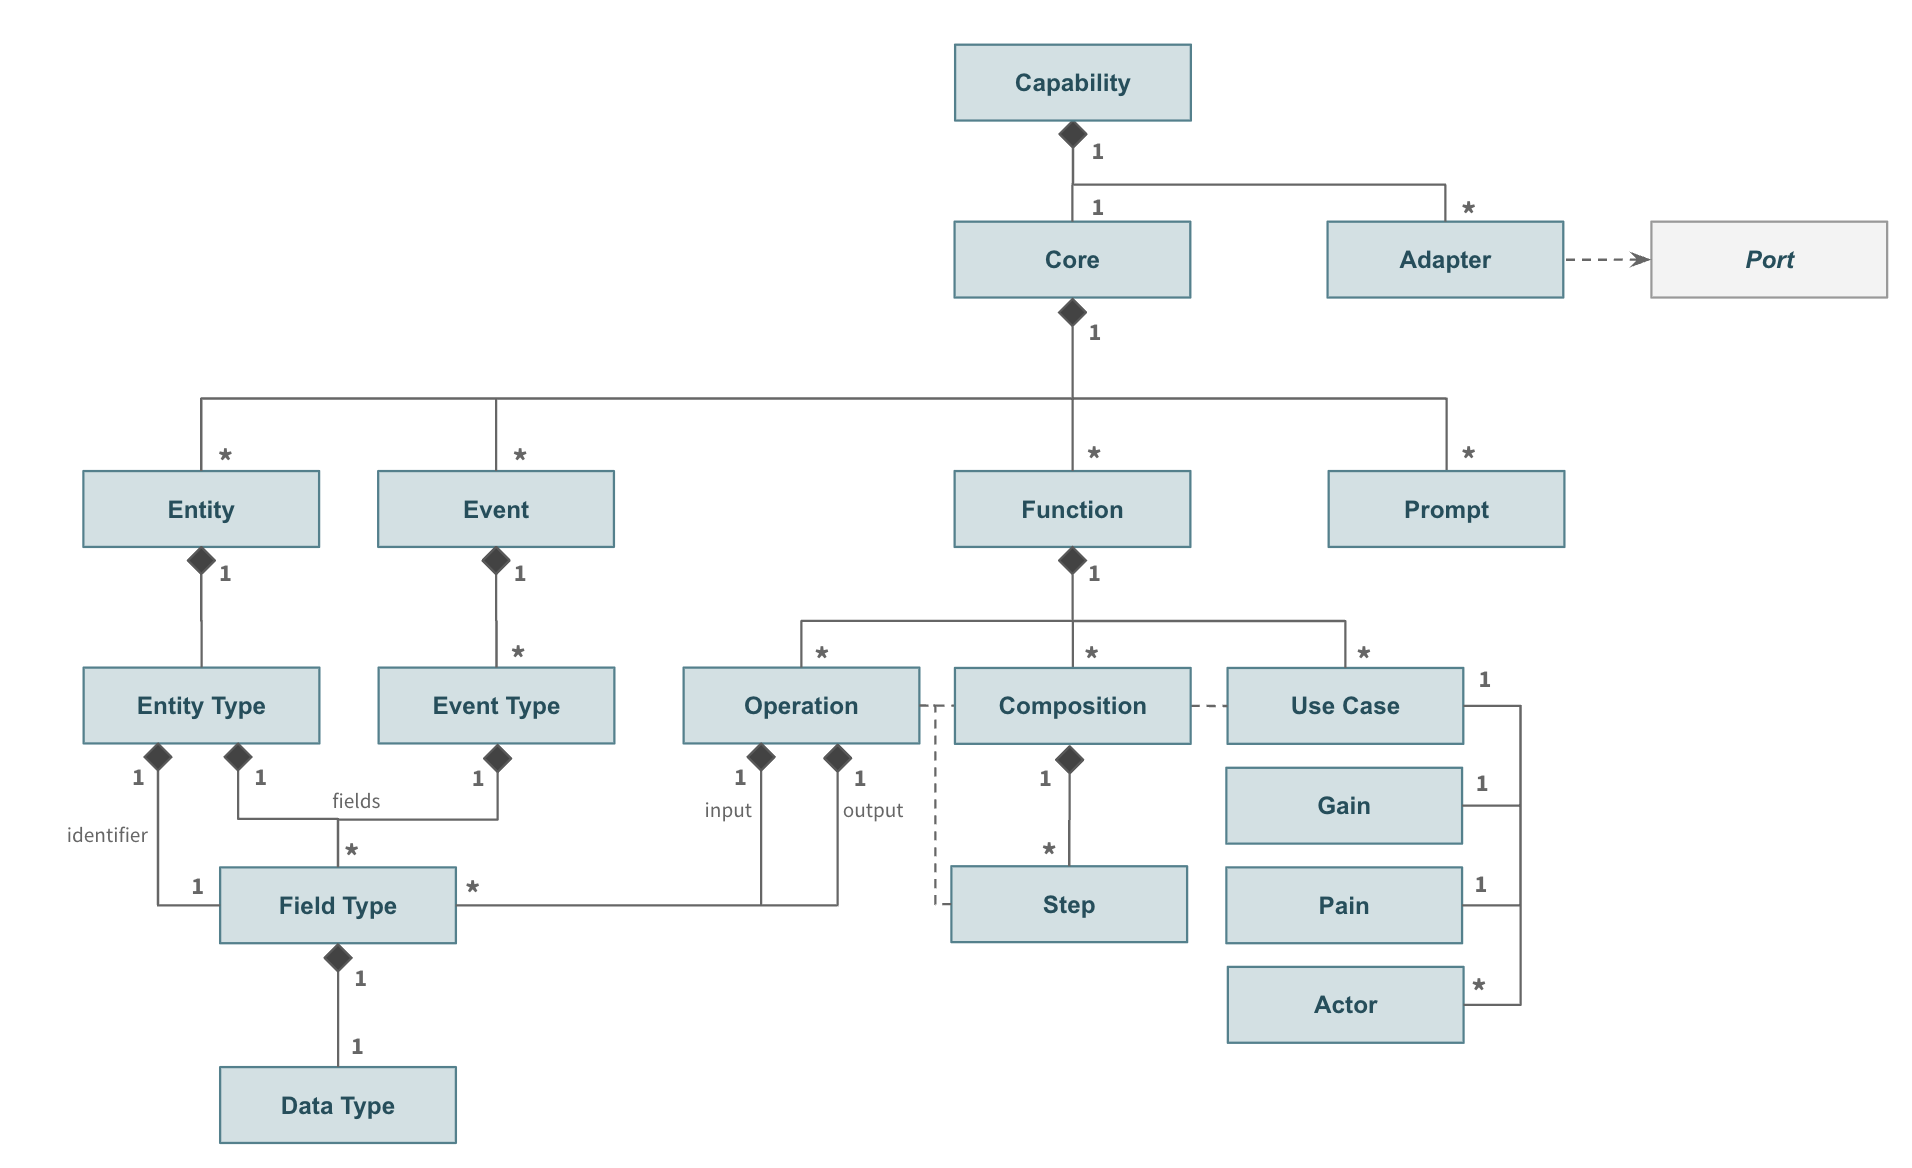
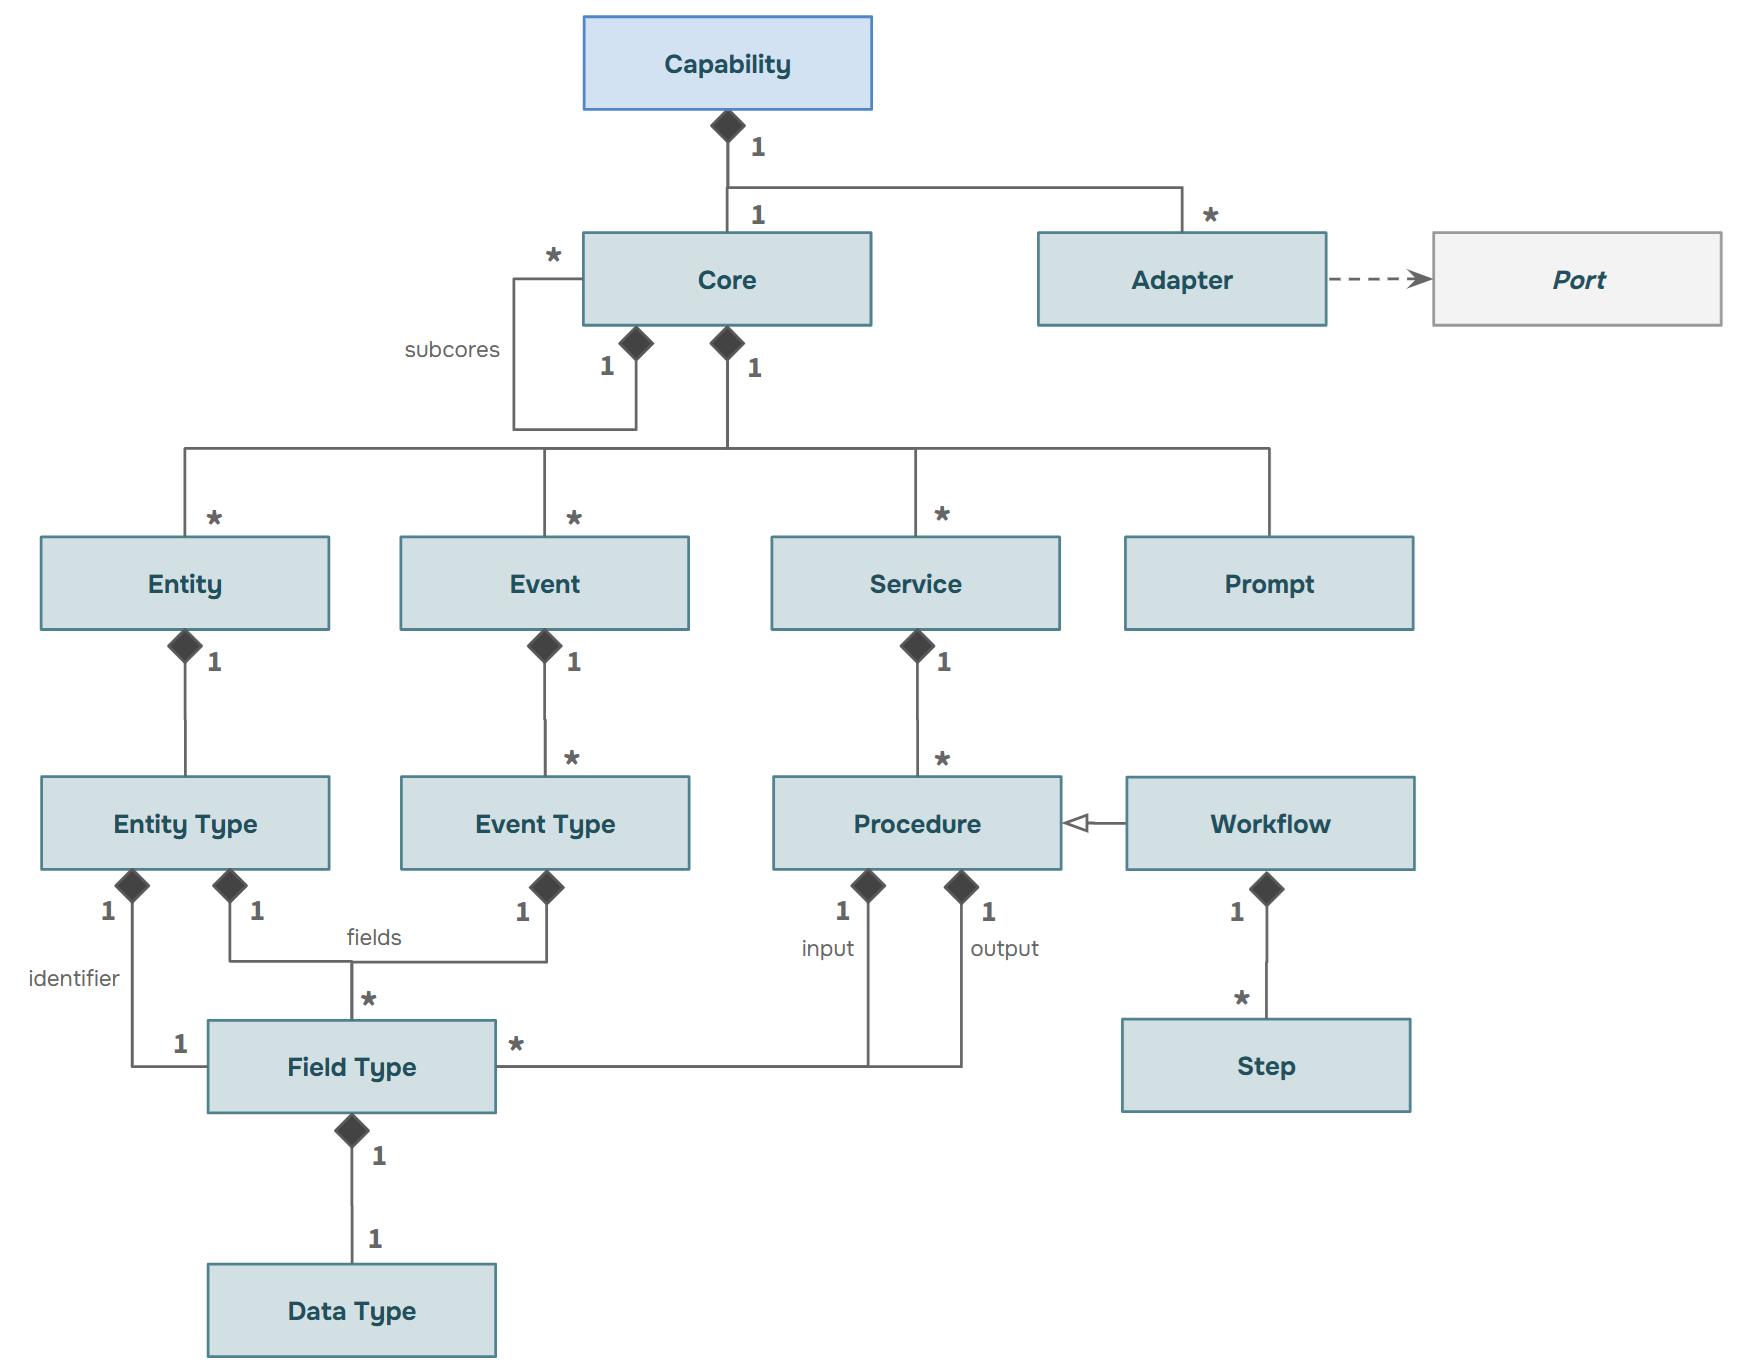
Revised and added the latest metamodel diagrams
Next step is to revise the schema and examples themselves

diff --git a/README.md b/README.md
@@ -1,9 +1,17 @@
 # Capabilities
 This is for managing the schema for the capabilities manifest. The goal is define a JSON Schema v2020-12 for the capabilities manifest, and provide working examples for our leading use cases, to provide an artifact that reflects the core domain metamodel. This is the machine-readable output of the negotiation occurring across the Capability Metamodel in the [Technology Plan Deck](https://docs.google.com/presentation/d/1zYfV1_xh7PuO3-7lcxrM-ps-lPdEDuGdOyYDu0rIFP0/edit?slide=id.g39b20392ad6_0_2&pli=1#slide=id.g39b20392ad6_0_2) and the Capability Metamodel in the [Google Doc](https://docs.google.com/document/d/1yo8F7sLjdE6LoQR1rYd-xK0M5spbPnZg3i5mc-yQuus/edit?tab=t.0).
 
+## Fabric Metamodel
+This is the metamodel being defined as part of the core product, and available in the [technology plan deck](https://docs.google.com/presentation/d/1zYfV1_xh7PuO3-7lcxrM-ps-lPdEDuGdOyYDu0rIFP0/edit?slide=id.g360f05e73a5_0_0#slide=id.g360f05e73a5_0_0).
+![Alt text](fabric-metamodel.png "Fabric Metamodel")
+
 ## Capabilities Metamodel
 This is the domain metamodel being define as part of the core product, and available in the [technology plan deck](https://docs.google.com/presentation/d/1zYfV1_xh7PuO3-7lcxrM-ps-lPdEDuGdOyYDu0rIFP0/edit?slide=id.g360f05e73a5_0_0#slide=id.g360f05e73a5_0_0).
-![Alt text](capability-metamodel.png "Meta Model")
+![Alt text](capability-metamodel.png "Capability Metamodel")
+
+There will be multiple ways to create this metamodel, direct edition in YAML, visual edition via the Naftiko Fabric visual interface and import from various related specifications as illustrated below:
+![Alt text](capability-conversions.png "Capability Conversions")
+
 
 ## JSON Schema
 This is the [JSON Schema we are iterating upon to define the capabilities manifest](schema.yml) and then validate as part of CI/CD and other automation.
